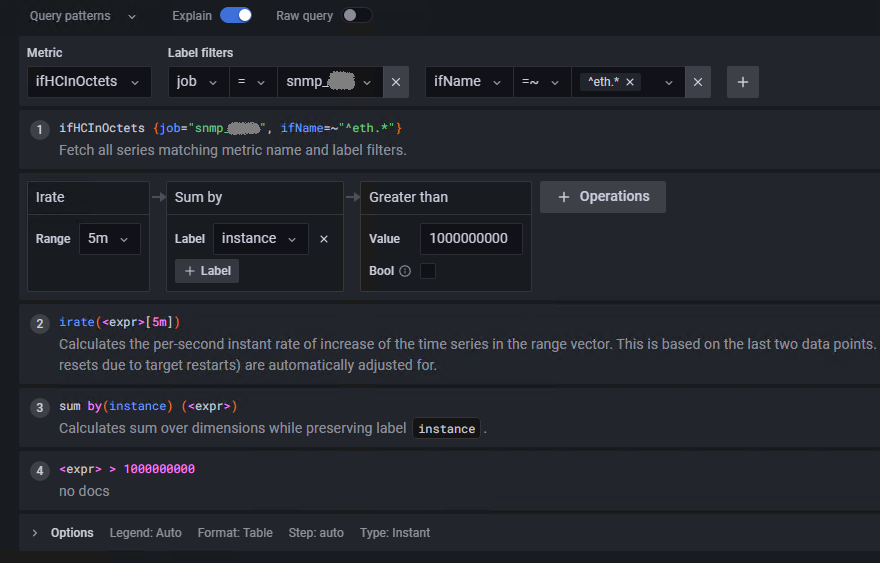
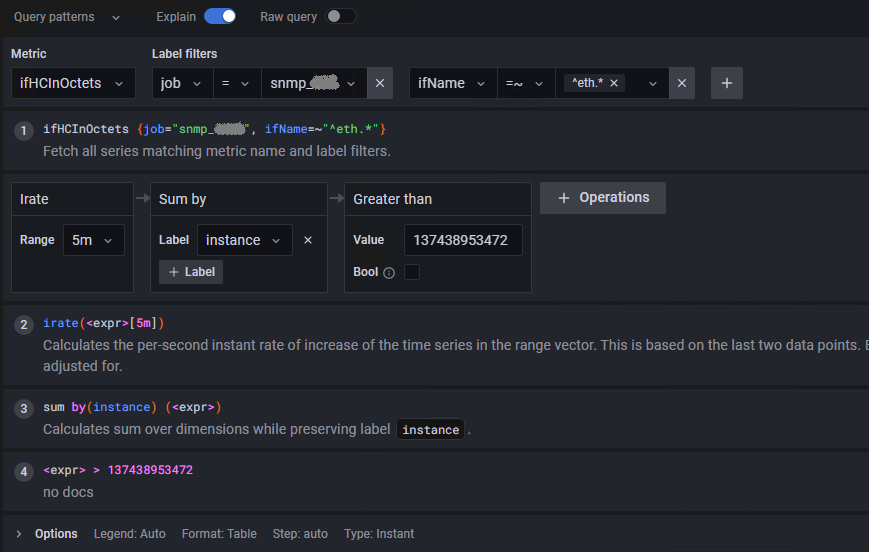
Site updated: 2022-12-11 17:26:41

diff --git a/Kubernetes/K8S-HA-Arch/index.html b/Kubernetes/K8S-HA-Arch/index.html
@@ -235,7 +235,7 @@
     <div class="post-body" itemprop="articleBody">
         <p>Kubernetes 集群在我们的数据中心中已使用多年，集群上也部署了不少主流的和自研的应用程序。因为多为预研项目，或者短期方案的验证，一直对集群本身的业务连续性没有太多硬性要求。随着我们的监控系统在整个数据中心的铺开，承载监控系统的平台层面的高可用成为不得不考虑的方面，为此我们停用了原来的单一 master 集群，重新规划了 Kubernetes HA 集群。</p>
 <h1 id="Kubernetes-组件的回顾"><a href="#Kubernetes-组件的回顾" class="headerlink" title="Kubernetes 组件的回顾"></a>Kubernetes 组件的回顾</h1><hr>
-<p>要讨论 Kubernetes 高可用集群，有必要重新回顾一下 Kubernetes 的基础组件以及组件间相互的关系。在<code>早期的文章</code>中，专门介绍过各个组件及功能。这里简单归纳。如图所示，Kubernetes 集群中包含两大部分组件</p>
+<p>要讨论 Kubernetes 高可用集群，有必要重新回顾一下 Kubernetes 的基础组件以及组件间相互的关系。在<code>早期的文章</code>中，专门介绍过各个组件及功能，这里简单归纳。如图所示，Kubernetes 集群中包含两大部分组件：</p>
 <img src="https://d33wubrfki0l68.cloudfront.net/2475489eaf20163ec0f54ddc1d92aa8d4c87c96b/e7c81/images/docs/components-of-kubernetes.svg" class="" title="K8S-components">
 
 <h2 id="Control-Plane-Components（控制平面）"><a href="#Control-Plane-Components（控制平面）" class="headerlink" title="Control Plane Components（控制平面）"></a>Control Plane Components（控制平面）</h2><p>控制平面是集群的大脑，负责资源调度，部署决策，集群事件响应等等，同时也是接收外界指令的接口。主要包括以下组件：</p>
@@ -245,7 +245,7 @@
 <li>kube-controller-manager</li>
 <li>etcd</li>
 </ul>
-<p>从 Kubernetes 的设计上，这些组件可以在任何节点上分布，但实践中，单一控制平面的集群往往会把这些组件集中在同一台节点上，也就是 master 节点。</p>
+<p>Kubernetes 的架构上，给予了这些组件相当的自由度，可以在任何节点上分布。具体到实践中，单一控制平面的集群往往会把这些组件集中在同一台节点上，也就是 master 节点。</p>
 <h2 id="Node-Components-节点组件"><a href="#Node-Components-节点组件" class="headerlink" title="Node Components (节点组件)"></a>Node Components (节点组件)</h2><p>Node Components会运行在集群中的每个节点上，与控制平面交互并为应用负载提供运行环境。主要包括以下组件：</p>
 <ul>
 <li>kubelet</li>
@@ -309,7 +309,7 @@
       <a href="https://mightoon.github.io/Kubernetes/K8S-HA-Arch/" title="[Kubernetes] Kubernetes 高可用集群架构原理分析">https://mightoon.github.io/Kubernetes/K8S-HA-Arch/</a>
   </li>
   <li class="post-copyright-license">
-    <strong>版权声明:  </strong>本文及本博客所有文章，均采用 <a href="https://creativecommons.org/licenses/by-nc-sa/4.0/" rel="noopener" target="_blank"><i class="fab fa-fw fa-creative-commons"></i>BY-NC-SA</a> 许可协议经行许可。转载请注明作者及原文链接。
+    <strong>版权声明:  </strong>本文及本博客所有文章，均采用 <a href="https://creativecommons.org/licenses/by-nc-sa/4.0/" rel="noopener" target="_blank"><i class="fab fa-fw fa-creative-commons"></i>BY-NC-SA</a> 许可协议进行许可。转载请注明作者及原文链接。
   </li>
 </ul>
 </div>

diff --git a/Observability/Observability-Grafana-9/index.html b/Observability/Observability-Grafana-9/index.html
@@ -240,7 +240,7 @@
 <h1 id="一个具体的例子"><a href="#一个具体的例子" class="headerlink" title="一个具体的例子"></a>一个具体的例子</h1><hr>
 <p>假设这样一个场景：</p>
 <blockquote>
-<p>需要对数据中心中所有交换机作一个统计，筛选出那些所有物理端口的 ingress 流量之和大于 1Pb 的交换机。</p>
+<p>需要对数据中心中所有交换机作一个统计，筛选出那些所有物理端口的 ingress 流量之和大于 1Tb 的交换机。</p>
 </blockquote>
 <p>接下来通过 Builder 来构建这个查询，如图：</p>
 <img src="query.png">
@@ -251,7 +251,7 @@
 <li>然后添加对数据的处理 （Operations）<ul>
 <li>因为 ingress 流量是一个 counter 类型的数据，首先用 irate() 转换为变化率</li>
 <li>然后以交换机（instance） 为单位，汇总每个交换机上所有物理端口的 ingress 流量之和</li>
-<li>然后对所得出流量值经行一个条件筛选，仅保留那些总流量大于 1Pb 的交换机</li>
+<li>然后对所得出流量值进行一个条件筛选，注意这里有单位的转换，最终仅保留那些总流量大于 1Tb 的交换机</li>
 </ul>
 </li>
 </ul>
@@ -260,7 +260,7 @@
 <li>注意，当有多个 operation 时，Grafana 将按顺序计算，也就是说，前一步的计算结果，会作为后一步的输入</li>
 <li>如上图，打开 Explain 后，每一个步骤都有对函数和参数的说明，相比直接写语句友好了很多</li>
 <li>打开 Raw query 后，可以看到生成的 PromQL 语句<blockquote>
-<p>sum by(instance) (irate(ifHCInOctets{job&#x3D;”snmp_xxx”, ifName&#x3D;~”^eth.*”}[5m])) &gt; 1024 * 1024 * 1024</p>
+<p>sum by(instance) (irate(ifHCInOctets{job&#x3D;”snmp_xxx”, ifName&#x3D;~”^eth.*”}[5m])) &gt; 1024 * 1024 * 1024 * 1024 &#x2F; 8</p>
 </blockquote>
 </li>
 </ul>
@@ -290,7 +290,7 @@
       <a href="https://mightoon.github.io/Observability/Observability-Grafana-9/" title="[Observability] Grafana v9 之鸟枪换炮">https://mightoon.github.io/Observability/Observability-Grafana-9/</a>
   </li>
   <li class="post-copyright-license">
-    <strong>版权声明:  </strong>本文及本博客所有文章，均采用 <a href="https://creativecommons.org/licenses/by-nc-sa/4.0/" rel="noopener" target="_blank"><i class="fab fa-fw fa-creative-commons"></i>BY-NC-SA</a> 许可协议经行许可。转载请注明作者及原文链接。
+    <strong>版权声明:  </strong>本文及本博客所有文章，均采用 <a href="https://creativecommons.org/licenses/by-nc-sa/4.0/" rel="noopener" target="_blank"><i class="fab fa-fw fa-creative-commons"></i>BY-NC-SA</a> 许可协议进行许可。转载请注明作者及原文链接。
   </li>
 </ul>
 </div>

diff --git a/Observability/Observability-SNMPv3-for-Brocade-Switch/index.html b/Observability/Observability-SNMPv3-for-Brocade-Switch/index.html
@@ -301,7 +301,7 @@
       <a href="https://mightoon.github.io/Observability/Observability-SNMPv3-for-Brocade-Switch/" title="[Observability] SNMPv3 实现 FC 虚拟网络监控">https://mightoon.github.io/Observability/Observability-SNMPv3-for-Brocade-Switch/</a>
   </li>
   <li class="post-copyright-license">
-    <strong>版权声明:  </strong>本文及本博客所有文章，均采用 <a href="https://creativecommons.org/licenses/by-nc-sa/4.0/" rel="noopener" target="_blank"><i class="fab fa-fw fa-creative-commons"></i>BY-NC-SA</a> 许可协议经行许可。转载请注明作者及原文链接。
+    <strong>版权声明:  </strong>本文及本博客所有文章，均采用 <a href="https://creativecommons.org/licenses/by-nc-sa/4.0/" rel="noopener" target="_blank"><i class="fab fa-fw fa-creative-commons"></i>BY-NC-SA</a> 许可协议进行许可。转载请注明作者及原文链接。
   </li>
 </ul>
 </div>

diff --git a/Troubleshooting/iSCSI-Flow-Control/index.html b/Troubleshooting/iSCSI-Flow-Control/index.html
@@ -285,7 +285,7 @@
       <a href="https://mightoon.github.io/Troubleshooting/iSCSI-Flow-Control/" title="[TroubleShooting] 一个由 Flow Control 引起的 iSCSI 性能问题">https://mightoon.github.io/Troubleshooting/iSCSI-Flow-Control/</a>
   </li>
   <li class="post-copyright-license">
-    <strong>版权声明:  </strong>本文及本博客所有文章，均采用 <a href="https://creativecommons.org/licenses/by-nc-sa/4.0/" rel="noopener" target="_blank"><i class="fab fa-fw fa-creative-commons"></i>BY-NC-SA</a> 许可协议经行许可。转载请注明作者及原文链接。
+    <strong>版权声明:  </strong>本文及本博客所有文章，均采用 <a href="https://creativecommons.org/licenses/by-nc-sa/4.0/" rel="noopener" target="_blank"><i class="fab fa-fw fa-creative-commons"></i>BY-NC-SA</a> 许可协议进行许可。转载请注明作者及原文链接。
   </li>
 </ul>
 </div>

diff --git a/Equinix/Equinix-Part1-Introduction/index.html b/Equinix/Equinix-Part1-Introduction/index.html
@@ -280,7 +280,7 @@
       <a href="https://mightoon.github.io/Equinix/Equinix-Part1-Introduction/" title="[Equinix] 一个跨 Co-location 和公有云的方案的落地">https://mightoon.github.io/Equinix/Equinix-Part1-Introduction/</a>
   </li>
   <li class="post-copyright-license">
-    <strong>版权声明:  </strong>本文及本博客所有文章，均采用 <a href="https://creativecommons.org/licenses/by-nc-sa/4.0/" rel="noopener" target="_blank"><i class="fab fa-fw fa-creative-commons"></i>BY-NC-SA</a> 许可协议经行许可。转载请注明作者及原文链接。
+    <strong>版权声明:  </strong>本文及本博客所有文章，均采用 <a href="https://creativecommons.org/licenses/by-nc-sa/4.0/" rel="noopener" target="_blank"><i class="fab fa-fw fa-creative-commons"></i>BY-NC-SA</a> 许可协议进行许可。转载请注明作者及原文链接。
   </li>
 </ul>
 </div>

diff --git a/Equinix/Equinix-Part4-Connectivity/index.html b/Equinix/Equinix-Part4-Connectivity/index.html
@@ -292,7 +292,7 @@
       <a href="https://mightoon.github.io/Equinix/Equinix-Part4-Connectivity/" title="[Equinix] 从 Equinix Metal 到 Equinix IBX 数据中心">https://mightoon.github.io/Equinix/Equinix-Part4-Connectivity/</a>
   </li>
   <li class="post-copyright-license">
-    <strong>版权声明:  </strong>本文及本博客所有文章，均采用 <a href="https://creativecommons.org/licenses/by-nc-sa/4.0/" rel="noopener" target="_blank"><i class="fab fa-fw fa-creative-commons"></i>BY-NC-SA</a> 许可协议经行许可。转载请注明作者及原文链接。
+    <strong>版权声明:  </strong>本文及本博客所有文章，均采用 <a href="https://creativecommons.org/licenses/by-nc-sa/4.0/" rel="noopener" target="_blank"><i class="fab fa-fw fa-creative-commons"></i>BY-NC-SA</a> 许可协议进行许可。转载请注明作者及原文链接。
   </li>
 </ul>
 </div>

diff --git a/Equinix/Equinix-Part2-Deployment/index.html b/Equinix/Equinix-Part2-Deployment/index.html
@@ -286,7 +286,7 @@
       <a href="https://mightoon.github.io/Equinix/Equinix-Part2-Deployment/" title="[Equinix] Bare Metal as-a-service 体验之虚拟化部署">https://mightoon.github.io/Equinix/Equinix-Part2-Deployment/</a>
   </li>
   <li class="post-copyright-license">
-    <strong>版权声明:  </strong>本文及本博客所有文章，均采用 <a href="https://creativecommons.org/licenses/by-nc-sa/4.0/" rel="noopener" target="_blank"><i class="fab fa-fw fa-creative-commons"></i>BY-NC-SA</a> 许可协议经行许可。转载请注明作者及原文链接。
+    <strong>版权声明:  </strong>本文及本博客所有文章，均采用 <a href="https://creativecommons.org/licenses/by-nc-sa/4.0/" rel="noopener" target="_blank"><i class="fab fa-fw fa-creative-commons"></i>BY-NC-SA</a> 许可协议进行许可。转载请注明作者及原文链接。
   </li>
 </ul>
 </div>

diff --git a/ElasticSearch/ElasticSearch-Cluster-Sizing/index.html b/ElasticSearch/ElasticSearch-Cluster-Sizing/index.html
@@ -336,7 +336,7 @@
       <a href="https://mightoon.github.io/ElasticSearch/ElasticSearch-Cluster-Sizing/" title="[ElasticSearch] ES 集群规模评估">https://mightoon.github.io/ElasticSearch/ElasticSearch-Cluster-Sizing/</a>
   </li>
   <li class="post-copyright-license">
-    <strong>版权声明:  </strong>本文及本博客所有文章，均采用 <a href="https://creativecommons.org/licenses/by-nc-sa/4.0/" rel="noopener" target="_blank"><i class="fab fa-fw fa-creative-commons"></i>BY-NC-SA</a> 许可协议经行许可。转载请注明作者及原文链接。
+    <strong>版权声明:  </strong>本文及本博客所有文章，均采用 <a href="https://creativecommons.org/licenses/by-nc-sa/4.0/" rel="noopener" target="_blank"><i class="fab fa-fw fa-creative-commons"></i>BY-NC-SA</a> 许可协议进行许可。转载请注明作者及原文链接。
   </li>
 </ul>
 </div>

diff --git a/Equinix/Equinix-Part3-Network/index.html b/Equinix/Equinix-Part3-Network/index.html
@@ -280,7 +280,7 @@
       <a href="https://mightoon.github.io/Equinix/Equinix-Part3-Network/" title="[Equinix] Bare Metal as-a-service 体验之网络重新规划">https://mightoon.github.io/Equinix/Equinix-Part3-Network/</a>
   </li>
   <li class="post-copyright-license">
-    <strong>版权声明:  </strong>本文及本博客所有文章，均采用 <a href="https://creativecommons.org/licenses/by-nc-sa/4.0/" rel="noopener" target="_blank"><i class="fab fa-fw fa-creative-commons"></i>BY-NC-SA</a> 许可协议经行许可。转载请注明作者及原文链接。
+    <strong>版权声明:  </strong>本文及本博客所有文章，均采用 <a href="https://creativecommons.org/licenses/by-nc-sa/4.0/" rel="noopener" target="_blank"><i class="fab fa-fw fa-creative-commons"></i>BY-NC-SA</a> 许可协议进行许可。转载请注明作者及原文链接。
   </li>
 </ul>
 </div>

diff --git a/Kubernetes/K8S-RKE-Deployment/index.html b/Kubernetes/K8S-RKE-Deployment/index.html
@@ -253,7 +253,7 @@
       <a href="https://mightoon.github.io/Kubernetes/K8S-RKE-Deployment/" title="[Kubernetes] Kubernetes 高可用集群基于 RKE 的实现">https://mightoon.github.io/Kubernetes/K8S-RKE-Deployment/</a>
   </li>
   <li class="post-copyright-license">
-    <strong>版权声明:  </strong>本文及本博客所有文章，均采用 <a href="https://creativecommons.org/licenses/by-nc-sa/4.0/" rel="noopener" target="_blank"><i class="fab fa-fw fa-creative-commons"></i>BY-NC-SA</a> 许可协议经行许可。转载请注明作者及原文链接。
+    <strong>版权声明:  </strong>本文及本博客所有文章，均采用 <a href="https://creativecommons.org/licenses/by-nc-sa/4.0/" rel="noopener" target="_blank"><i class="fab fa-fw fa-creative-commons"></i>BY-NC-SA</a> 许可协议进行许可。转载请注明作者及原文链接。
   </li>
 </ul>
 </div>

diff --git a/Automation/Bare-Metal-Provisioning/index.html b/Automation/Bare-Metal-Provisioning/index.html
@@ -267,7 +267,7 @@
       <a href="https://mightoon.github.io/Automation/Bare-Metal-Provisioning/" title="有关 Bare Metal Provisioning 的一些想法">https://mightoon.github.io/Automation/Bare-Metal-Provisioning/</a>
   </li>
   <li class="post-copyright-license">
-    <strong>版权声明:  </strong>本文及本博客所有文章，均采用 <a href="https://creativecommons.org/licenses/by-nc-sa/4.0/" rel="noopener" target="_blank"><i class="fab fa-fw fa-creative-commons"></i>BY-NC-SA</a> 许可协议经行许可。转载请注明作者及原文链接。
+    <strong>版权声明:  </strong>本文及本博客所有文章，均采用 <a href="https://creativecommons.org/licenses/by-nc-sa/4.0/" rel="noopener" target="_blank"><i class="fab fa-fw fa-creative-commons"></i>BY-NC-SA</a> 许可协议进行许可。转载请注明作者及原文链接。
   </li>
 </ul>
 </div>

diff --git a/Kubernetes/K8S-Rook-Ceph/index.html b/Kubernetes/K8S-Rook-Ceph/index.html
@@ -306,7 +306,7 @@
       <a href="https://mightoon.github.io/Kubernetes/K8S-Rook-Ceph/" title="[Kubernetes] 使用 Rook Ceph 为监控系统提供持久化存储">https://mightoon.github.io/Kubernetes/K8S-Rook-Ceph/</a>
   </li>
   <li class="post-copyright-license">
-    <strong>版权声明:  </strong>本文及本博客所有文章，均采用 <a href="https://creativecommons.org/licenses/by-nc-sa/4.0/" rel="noopener" target="_blank"><i class="fab fa-fw fa-creative-commons"></i>BY-NC-SA</a> 许可协议经行许可。转载请注明作者及原文链接。
+    <strong>版权声明:  </strong>本文及本博客所有文章，均采用 <a href="https://creativecommons.org/licenses/by-nc-sa/4.0/" rel="noopener" target="_blank"><i class="fab fa-fw fa-creative-commons"></i>BY-NC-SA</a> 许可协议进行许可。转载请注明作者及原文链接。
   </li>
 </ul>
 </div>
